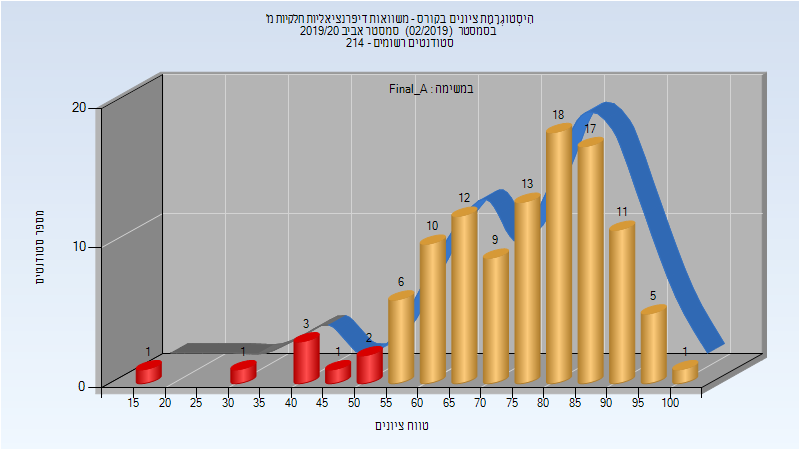
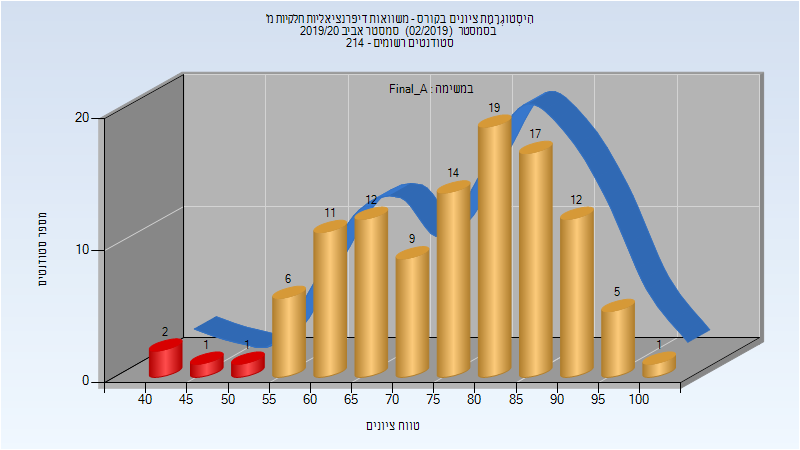
Deploy michael-maltsev/technion-histograms to github.com/michael-maltsev/technion-histograms.git:gh-pages

diff --git a/104228/index.html b/104228/index.html
@@ -1381,11 +1381,11 @@
 <tbody>
 <tr>
 <td>110</td>
-<td>98/12</td>
-<td>89</td>
-<td>8</td>
+<td>102/8</td>
+<td>93</td>
+<td>36</td>
 <td>100</td>
-<td>72.936</td>
+<td>74.673</td>
 <td>77</td>
 </tr>
 </tbody>
@@ -1407,11 +1407,37 @@
 <tbody>
 <tr>
 <td>110</td>
-<td>102/8</td>
-<td>93</td>
-<td>17</td>
+<td>106/4</td>
+<td>96</td>
+<td>42</td>
 <td>100</td>
-<td>75.418</td>
+<td>76.991</td>
+<td>79</td>
+</tr>
+</tbody>
+</table>
+<h3>סופי</h3>
+<p><img src="201902/Finals.png" alt="201902 Finals" /></p>
+<table>
+<thead>
+<tr>
+<th>סטודנטים</th>
+<th>עברו/נכשלו</th>
+<th>אחוז עוברים</th>
+<th>ציון מינימלי</th>
+<th>ציון מקסימלי</th>
+<th>ממוצע</th>
+<th>חציון</th>
+</tr>
+</thead>
+<tbody>
+<tr>
+<td>110</td>
+<td>106/4</td>
+<td>96</td>
+<td>42</td>
+<td>100</td>
+<td>76.991</td>
 <td>79</td>
 </tr>
 </tbody>

diff --git a/084311/index.html b/084311/index.html
@@ -733,5 +733,31 @@
 </tr>
 </tbody>
 </table>
+<h3>סופי</h3>
+<p><img src="201902/Finals.png" alt="201902 Finals" /></p>
+<table>
+<thead>
+<tr>
+<th>סטודנטים</th>
+<th>עברו/נכשלו</th>
+<th>אחוז עוברים</th>
+<th>ציון מינימלי</th>
+<th>ציון מקסימלי</th>
+<th>ממוצע</th>
+<th>חציון</th>
+</tr>
+</thead>
+<tbody>
+<tr>
+<td>53</td>
+<td>39/14</td>
+<td>74</td>
+<td>23</td>
+<td>97</td>
+<td>64.981</td>
+<td>64</td>
+</tr>
+</tbody>
+</table>
   </body>
 </html>

diff --git a/104228/README.md b/104228/README.md
@@ -435,7 +435,7 @@
 
 | סטודנטים | עברו/נכשלו | אחוז עוברים | ציון מינימלי | ציון מקסימלי | ממוצע | חציון |
 | ---- | ---- | ---- | ---- | ---- | ---- | ---- |
-| 110 | 98/12 | 89 | 8 | 100 | 72.936 | 77 |
+| 110 | 102/8 | 93 | 36 | 100 | 74.673 | 77 |
 
 ### סופי מועד א'
 
@@ -443,5 +443,13 @@
 
 | סטודנטים | עברו/נכשלו | אחוז עוברים | ציון מינימלי | ציון מקסימלי | ממוצע | חציון |
 | ---- | ---- | ---- | ---- | ---- | ---- | ---- |
-| 110 | 102/8 | 93 | 17 | 100 | 75.418 | 79 |
+| 110 | 106/4 | 96 | 42 | 100 | 76.991 | 79 |
+
+### סופי
+
+![201902 Finals](201902/Finals.png)
+
+| סטודנטים | עברו/נכשלו | אחוז עוברים | ציון מינימלי | ציון מקסימלי | ממוצע | חציון |
+| ---- | ---- | ---- | ---- | ---- | ---- | ---- |
+| 110 | 106/4 | 96 | 42 | 100 | 76.991 | 79 |
 

diff --git a/084311/README.md b/084311/README.md
@@ -226,3 +226,11 @@
 | ---- | ---- | ---- | ---- | ---- | ---- | ---- |
 | 53 | 39/14 | 74 | 23 | 97 | 64.981 | 64 |
 
+### סופי
+
+![201902 Finals](201902/Finals.png)
+
+| סטודנטים | עברו/נכשלו | אחוז עוברים | ציון מינימלי | ציון מקסימלי | ממוצע | חציון |
+| ---- | ---- | ---- | ---- | ---- | ---- | ---- |
+| 53 | 39/14 | 74 | 23 | 97 | 64.981 | 64 |
+
